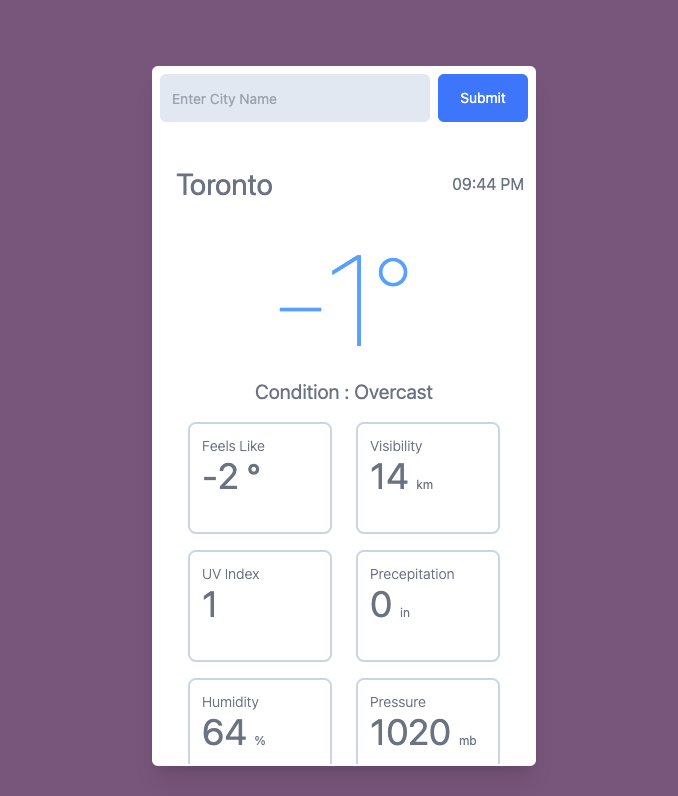
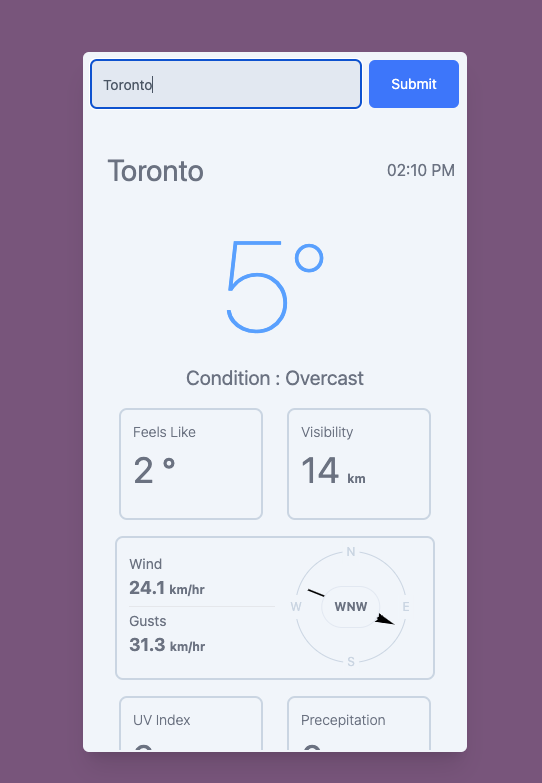
wind direction component done

Changed region(s): [[0.1476, 0.0613, 0.8856, 0.9808], [0.4133, 0.3065, 0.6199, 0.4291], [0.7085, 0.9502, 0.738, 0.9808]]

diff --git a/src/app/components/wind-direction/wind-direction.component.ts b/src/app/components/wind-direction/wind-direction.component.ts
@@ -1,10 +1,58 @@
-import { Component } from '@angular/core';
+import { Component, Input, OnChanges, SimpleChanges } from '@angular/core';
 
 @Component({
   selector: 'app-wind-direction',
   templateUrl: './wind-direction.component.html',
   styleUrls: ['./wind-direction.component.css']
 })
-export class WindDirectionComponent {
+export class WindDirectionComponent implements OnChanges {
+
+  @Input() windDirection: string = '';
+  directionClass: string = '';
+
+  ngOnChanges(changes: SimpleChanges): void {
+    console.log(changes['windDirection'])
+    let direction = changes['windDirection']['currentValue'];
+    this.directionClass = this.getDirectionClass(direction)
+  }
+
+  getDirectionClass(direction: string): string {
+    switch (direction) {
+      case "W":
+        return ''
+      case "E":
+        return 'rotate-180'
+      case "S":
+        return '-rotate-90'
+      case "N":
+        return 'rotate-90'
+      case "SW":
+        return '-rotate-45'
+      case "SE":
+        return '-rotate-[135deg]'
+      case "NW":
+        return 'rotate-45'
+      case "NE":
+        return 'rotate-[135deg]'
+      case "NNE":
+        return 'rotate-[113deg]'
+      case "ENE":
+        return 'rotate-[157deg]'
+      case "ESE":
+        return '-rotate-[157deg]' //correct
+      case "SSE":
+        return '-rotate-[113deg]'
+      case "SSW":
+        return '-rotate-[67deg]'
+      case "WSW":
+        return '-rotate-[22deg]' //correct
+      case "WNW":
+        return 'rotate-[22deg]'
+      case "NNW":
+        return 'rotate-[67deg]'
+
+    }
+    return ''
+  }
 
 }

diff --git a/src/app/views/weather-box/weather-box.component.ts b/src/app/views/weather-box/weather-box.component.ts
@@ -3,48 +3,6 @@ import { WeatherInterface } from 'src/app/types/weatherType';
 import { readableTime } from './../../utils/common'
 
 
-const dummyData = {
-  "location": {
-    "name": "Toronto",
-    "region": "Ontario",
-    "country": "Canada",
-    "lat": 43.67,
-    "lon": -79.42,
-    "tz_id": "America/Toronto",
-    "localtime_epoch": 1701917057,
-    "localtime": "2023-12-06 21:44"
-  },
-  "current": {
-    "last_updated_epoch": 1701916200,
-    "last_updated": "2023-12-06 21:30",
-    "temp_c": -1,
-    "temp_f": 30.2,
-    "is_day": 0,
-    "condition": {
-      "text": "Overcast",
-      "icon": "//cdn.weatherapi.com/weather/64x64/night/122.png",
-      "code": 1009
-    },
-    "wind_mph": 3.8,
-    "wind_kph": 6.1,
-    "wind_degree": 270,
-    "wind_dir": "W",
-    "pressure_mb": 1020,
-    "pressure_in": 30.12,
-    "precip_mm": 0,
-    "precip_in": 0,
-    "humidity": 64,
-    "cloud": 100,
-    "feelslike_c": -2.4,
-    "feelslike_f": 27.7,
-    "vis_km": 14,
-    "vis_miles": 8,
-    "uv": 1,
-    "gust_mph": 3.8,
-    "gust_kph": 6.1
-  }
-}
-
 @Component({
   selector: 'app-weather-box',
   templateUrl: './weather-box.component.html',
@@ -59,7 +17,6 @@ export class WeatherBoxComponent implements OnChanges {
   readableTime = readableTime
 
   ngOnChanges(changes: SimpleChanges): void {
-    console.log(changes)
-    this.weatherData = dummyData
+    this.weatherData = changes['weatherData']['currentValue'];
   }
 }

diff --git a/src/app/views/weather-box/weather-box.component.html b/src/app/views/weather-box/weather-box.component.html
@@ -1,3 +1,12 @@
+<div *ngIf="!weatherData">
+    <div class="h-full w-full p-5 text-slate-400 text-center">
+        Search a city name to get its current weather.
+        <div class="w-24 h-24 m-auto mt-10">
+            <img src="./../../../assets/images/search.svg" alt="search icon" class="w-full h-full">
+        </div>
+    </div>
+</div>
+
 <div *ngIf="weatherData">
     <div [ngClass]="weatherData.current.is_day ? 'day-bg' : 'night-bg'" class="text-gray-500">
         <div class="flex items-center justify-between px-3 ">
@@ -14,7 +23,7 @@
             <app-value-box [title]="'Feels Like'" [value]="weatherData.current.feelslike_c.toFixed(0)" unit="deg" />
             <app-value-box [title]="'Visibility'" [value]="weatherData.current.vis_km" unit="km" />
 
-            <app-wind-box [windDirection]="'SW'" [gusts]="weatherData.current.gust_kph" [windSpeed]="weatherData.current.wind_kph" />
+            <app-wind-box [windDirection]="weatherData.current.wind_dir" [gusts]="weatherData.current.gust_kph" [windSpeed]="weatherData.current.wind_kph" />
             <app-value-box [title]="'UV Index'" [value]="weatherData.current.uv" />
             <app-value-box [title]="'Precepitation'" [value]="weatherData.current.precip_in" unit="in"/>
             <app-value-box [title]="'Humidity'" [value]="weatherData.current.humidity" unit="%" />

diff --git a/src/app/components/wind-direction/wind-direction.component.html b/src/app/components/wind-direction/wind-direction.component.html
@@ -1,1 +1,11 @@
-<p>wind-direction works!</p>
+<div class="wind-d-box h-28 w-28 rounded-full border border-slate-300 ml-5 relative">
+    <div class="direction absolute top-0 left-1/2 -translate-x-1/2 -translate-y-1/2 p-1 bg-slate-100 text-xs text-slate-300" >N</div>
+    <div class="direction absolute top-1/2 left-0 -translate-x-1/2 -translate-y-1/2 p-1 bg-slate-100 text-xs text-slate-300">W</div>
+    <div class="direction absolute top-1/2 left-full -translate-x-1/2 -translate-y-1/2 p-1 bg-slate-100 text-xs text-slate-300">E</div>
+    <div class="direction absolute top-full left-1/2 -translate-x-1/2 -translate-y-1/2 p-1 bg-slate-100 text-xs text-slate-300">S</div>
+
+    <div class="absolute w-full px-2 h-full top-1/2 -translate-y-1/2" [ngClass]="directionClass">
+        <img src="./../../../assets/images/direction.svg" alt="wind direction" class="h-full width-full">
+    </div>
+    <div class="direction-text absolute top-1/2 left-1/2 -translate-x-1/2 -translate-y-1/2  border border-slate-200 rounded-full p-3 font-bold text-xs bg-slate-100">{{windDirection}}</div>
+</div>

diff --git a/src/app/views/wind-box/wind-box.component.html b/src/app/views/wind-box/wind-box.component.html
@@ -1,4 +1,4 @@
-<div class="w-80 h-32 border-2 border-slate-300 rounded-lg p-3 my-2">
+<div class="w-80 h-36 border-2 border-slate-300 rounded-lg p-3 my-2">
     <div class="flex items-center">
         <div class="left w-1/2">
             <div class="my-1" *ngIf="windSpeed">
@@ -11,7 +11,9 @@
                 <div class="text-lg font-bold"> {{gusts}} <span class="text-xs">km/hr</span></div>
             </div>
         </div>
-        <div class="right w-1/2 wind-direction"></div>
+        <div class="right w-1/2 wind-direction">
+            <app-wind-direction [windDirection]="windDirection"/>
+        </div>
     </div>
     
     <!-- <div class="vb-val text-4xl">{{value}} 

diff --git a/src/styles.css b/src/styles.css
@@ -17,9 +17,9 @@ body {
 }
 
 .day-bg {
-    /* background-image: url(./assets/images/day.webp); */
+    /* background-image: url(./assets/images/day.jpg); */
 }
 
 .night-bg {
-    /* background-image: url('./assets/images/night.webp'); */
+    /* background-image: url('./assets/images/night.jpg'); */
 }

diff --git a/src/app/views/home/home.component.html b/src/app/views/home/home.component.html
@@ -1,4 +1,4 @@
-<section class="w-96 h-[700px] bg-white m-auto mt-20 rounded-md shadow-xl">
+<section class="w-96 h-[700px] bg-slate-100 m-auto mt-20 rounded-md shadow-xl">
     <section class="search-container w-full">
         <app-search-box (weatherData)="setWeatherData($event)" />
     </section>

diff --git a/README.md b/README.md
@@ -18,8 +18,13 @@ A sample project to work on the basics of Angular
 3. Install dependencies. Run *npm install*
 4. Run *npm run start* to serve the project on http://localhost:4200
 
+### Interesting Sections
+* The wind direction component was fun to build using tailwind css.
+
 ### Screenshot
 ![alt text][s1]
 
 
+
 [s1]: /screenshots/s1.png "Screenshot 1"
+
